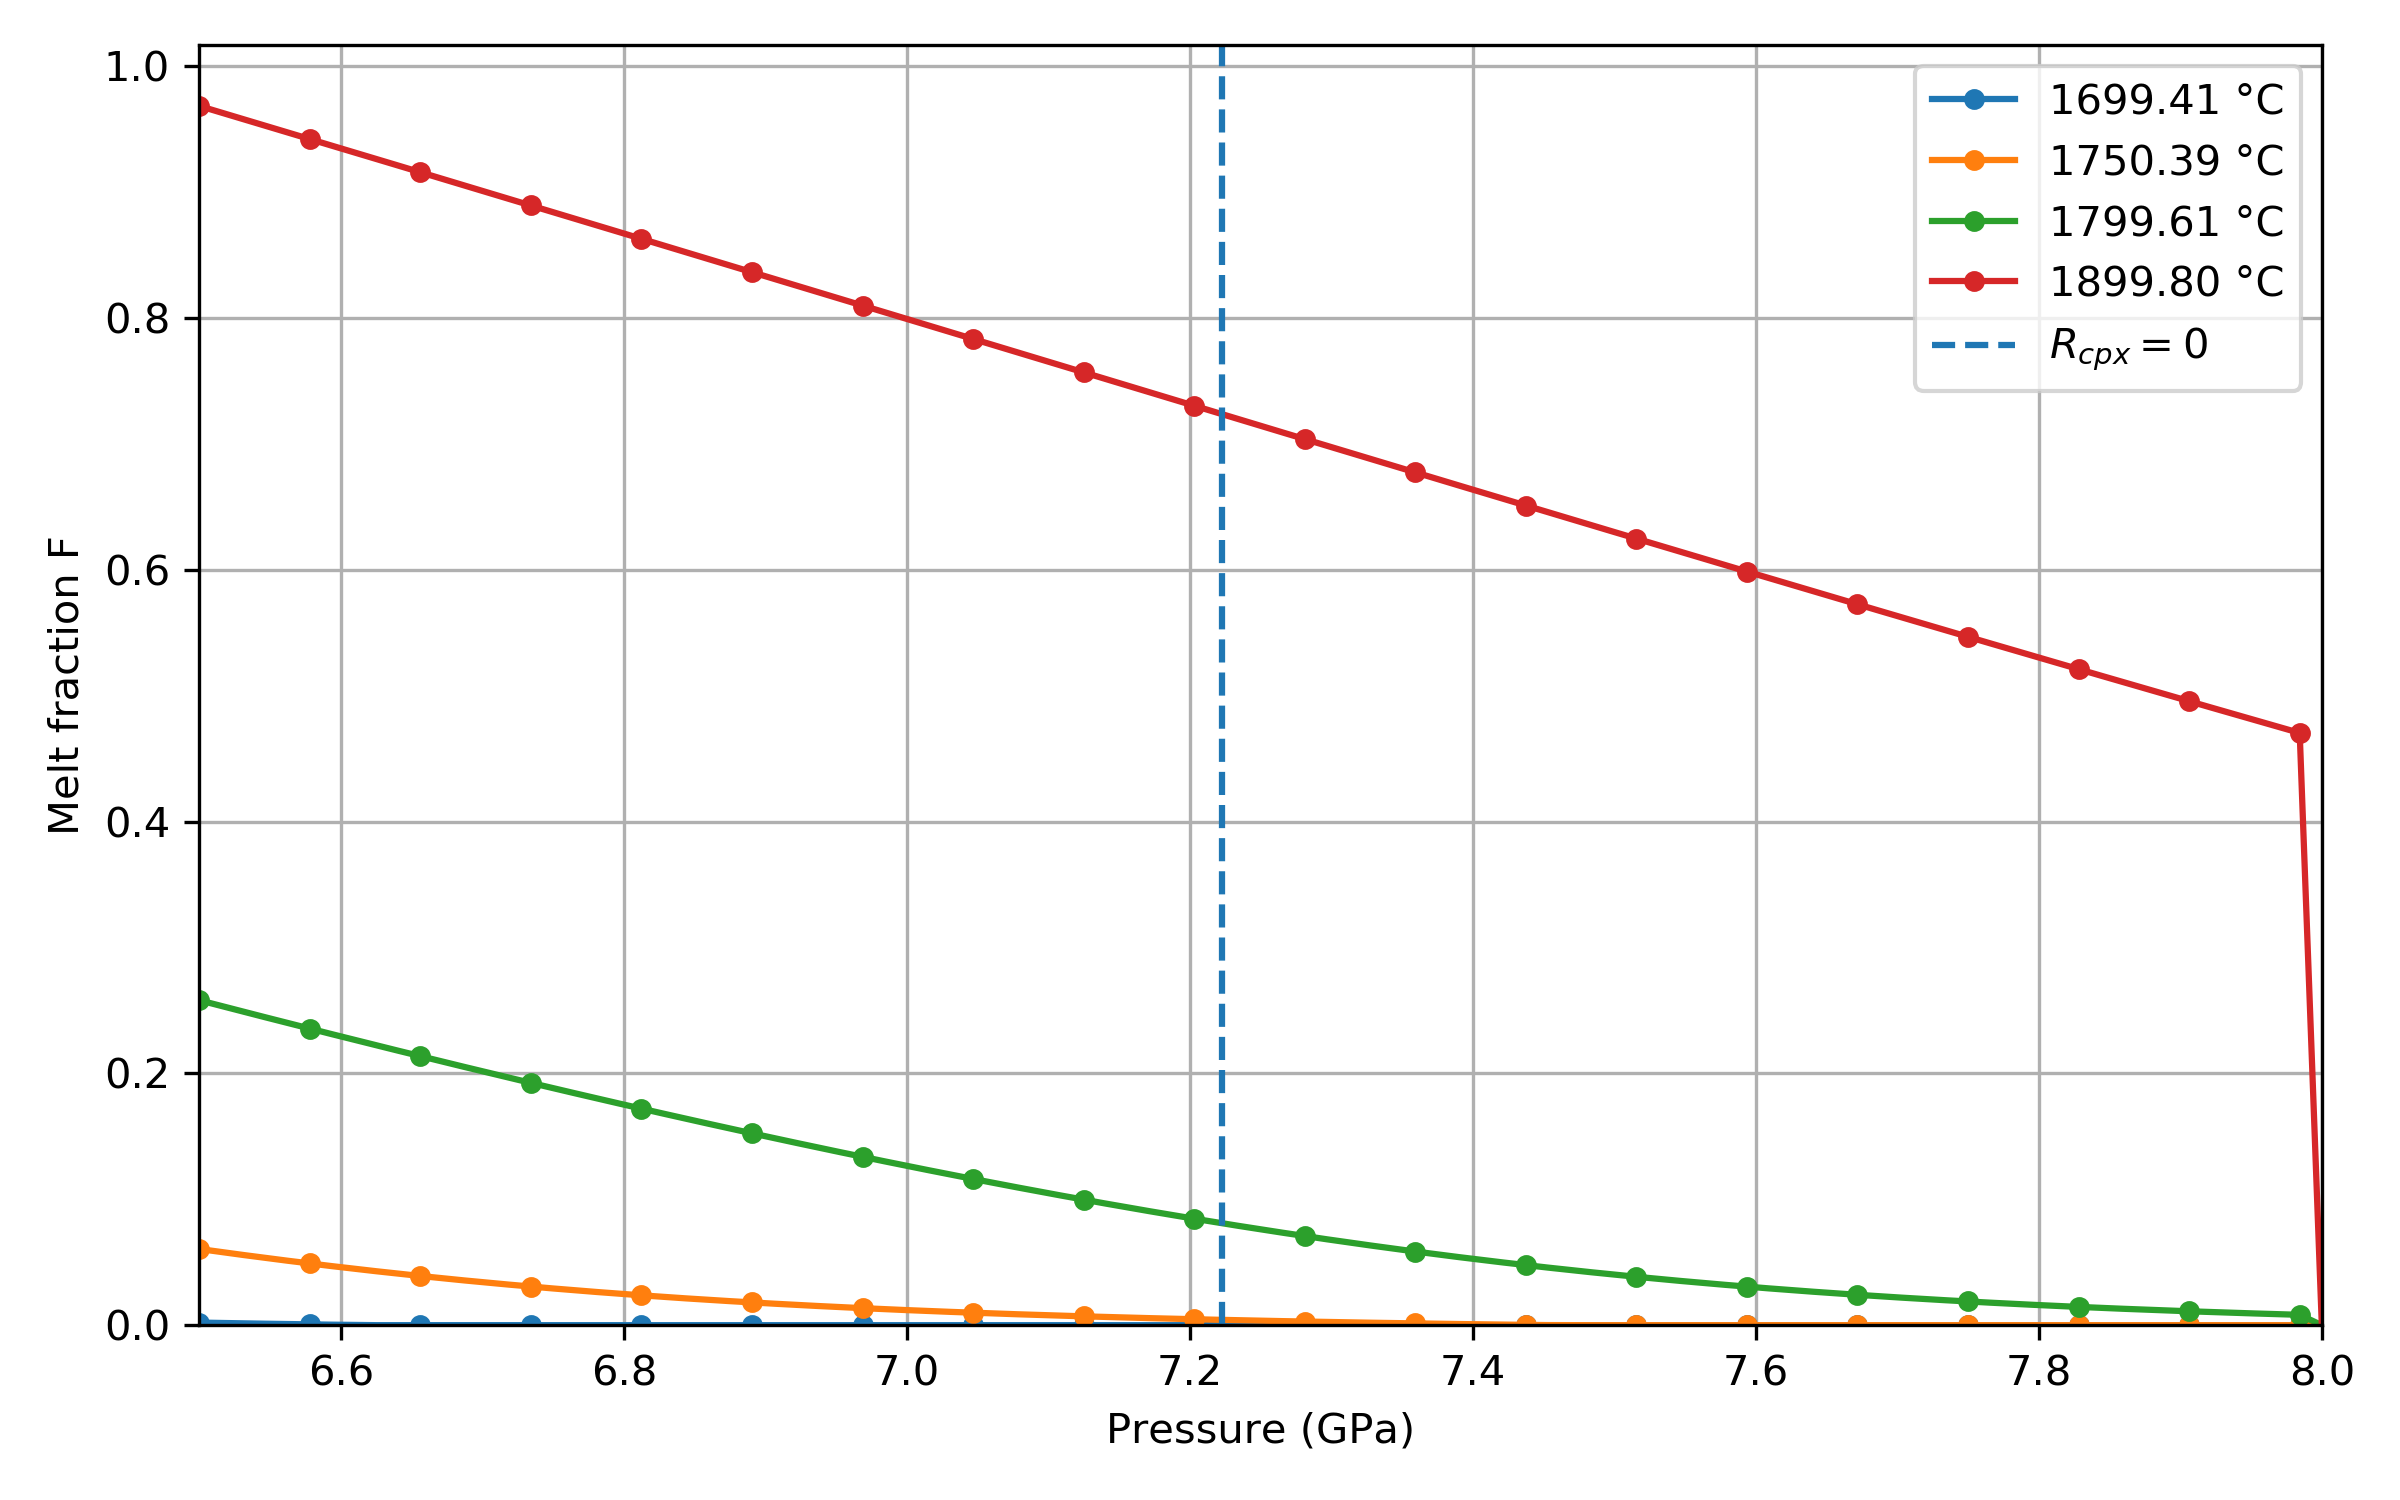
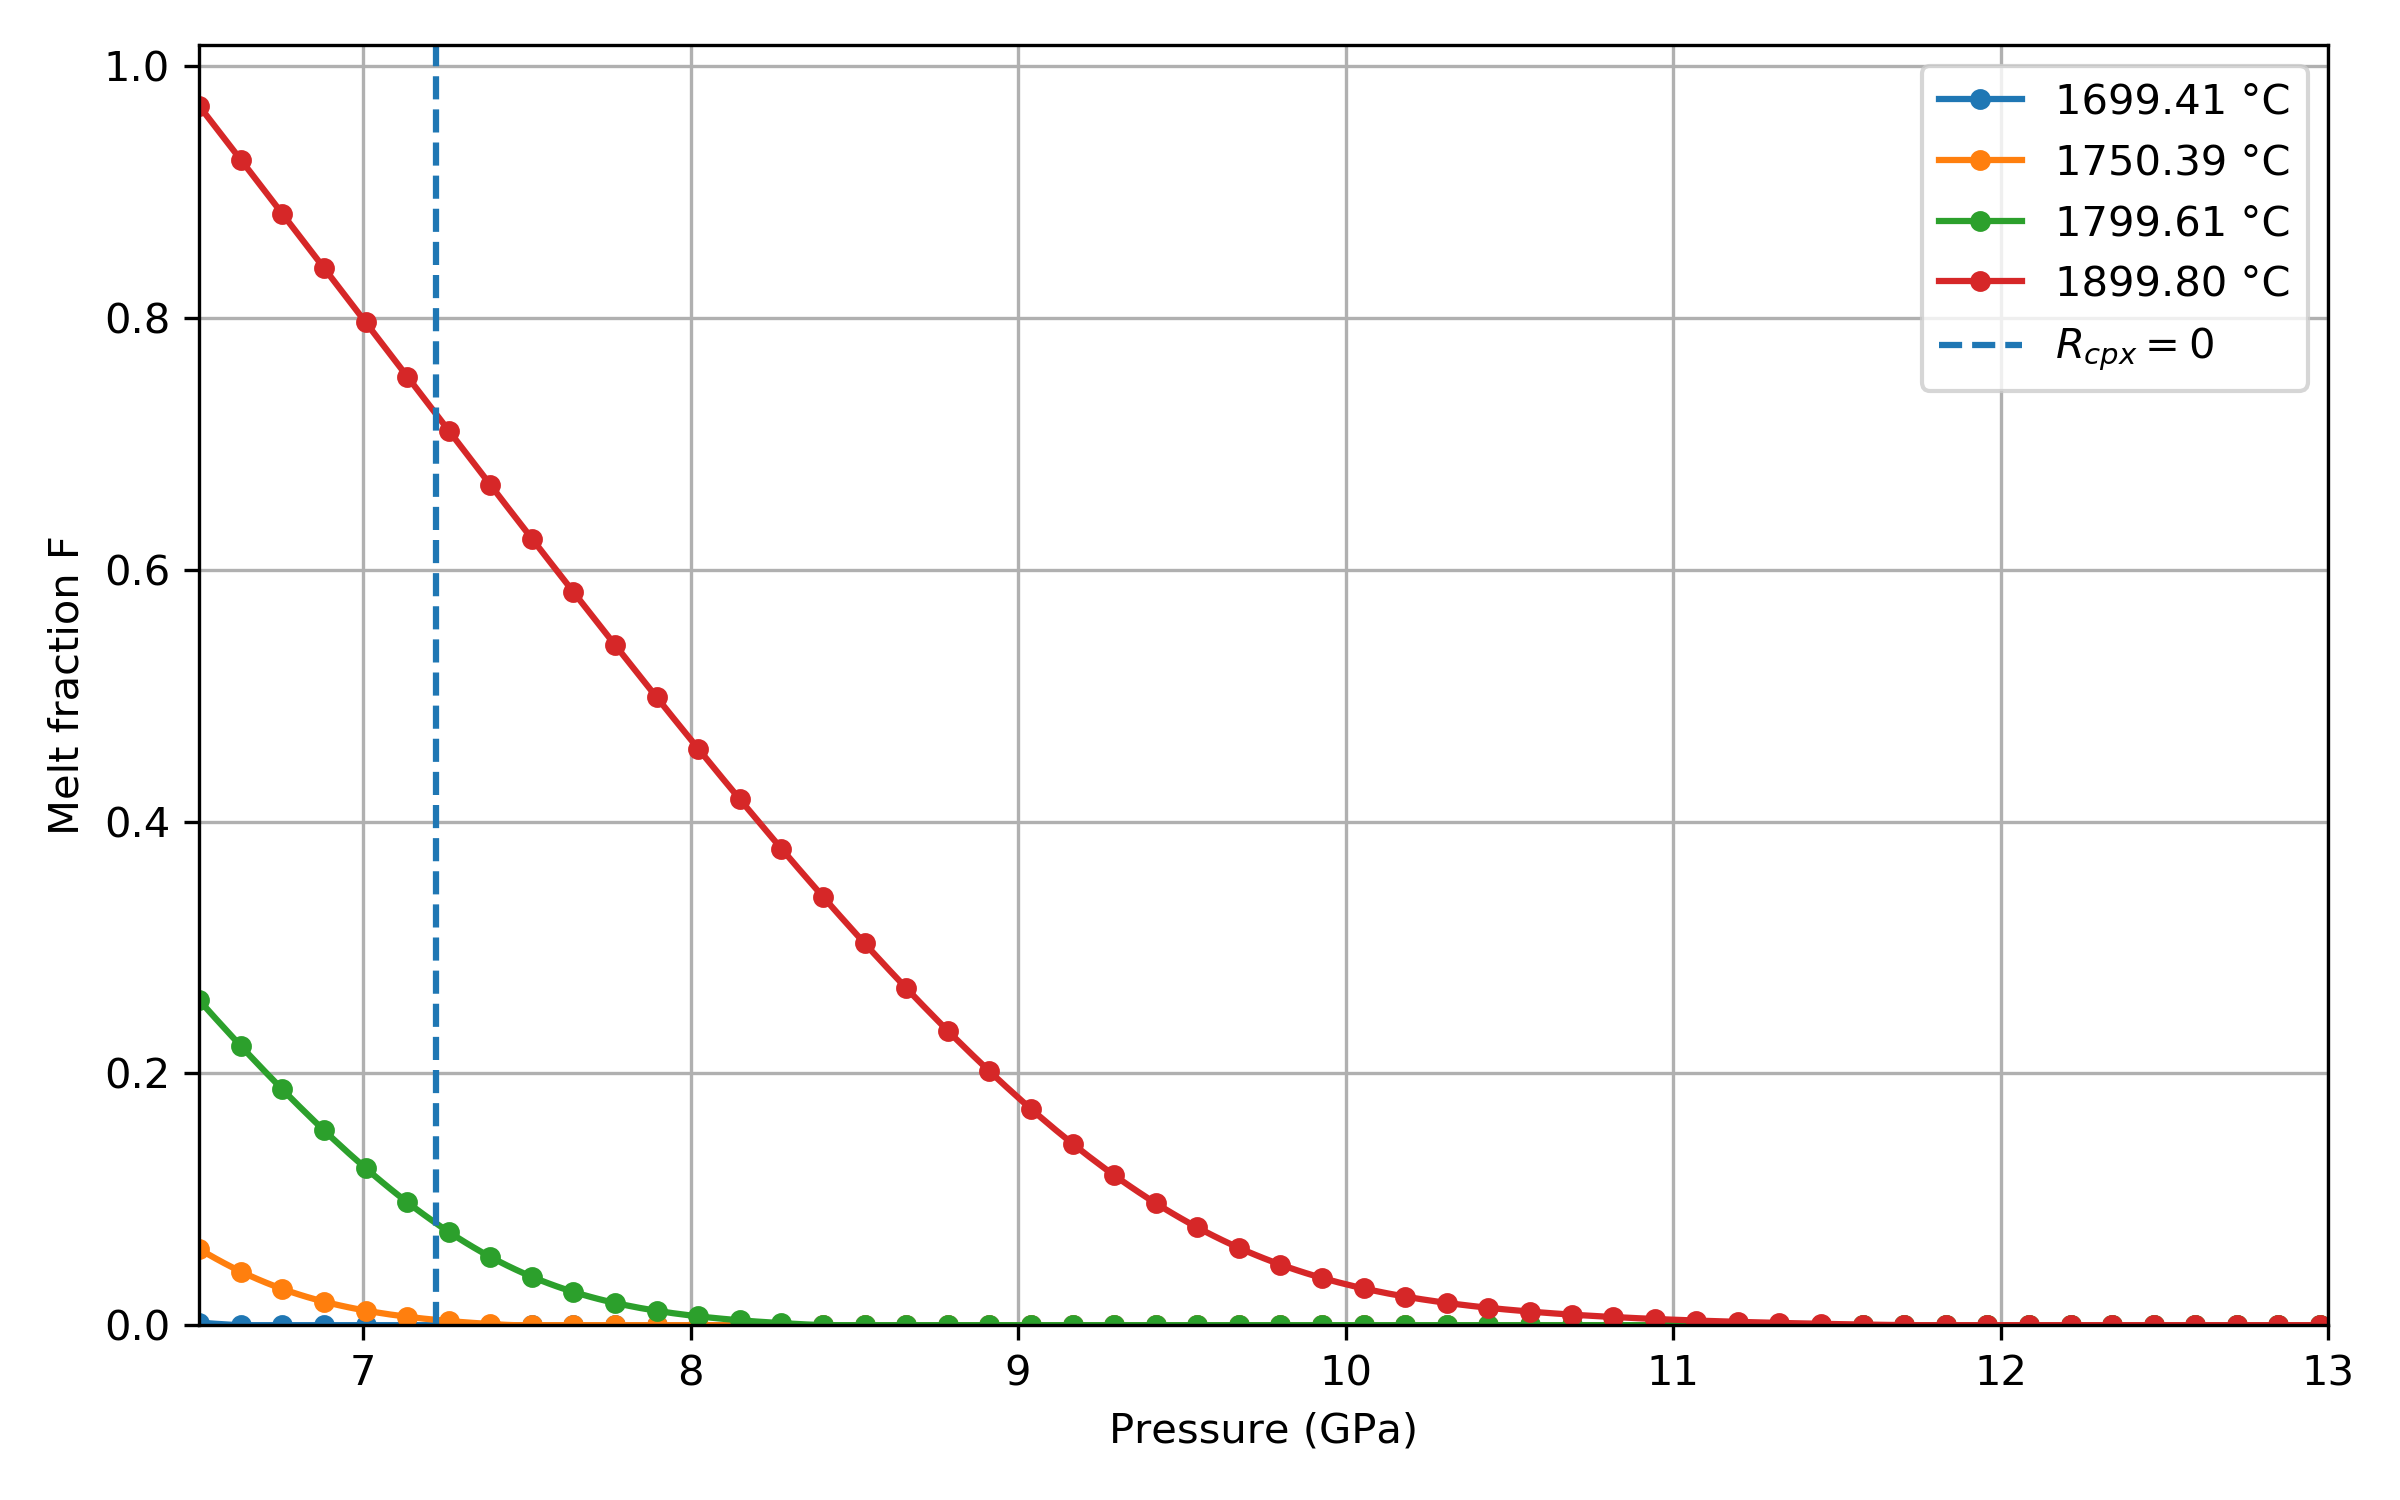
Update hydrous melt fraction documentation and benchmark plot

diff --git a/source/postprocess/visualization/melt_fraction.cc b/source/postprocess/visualization/melt_fraction.cc
@@ -483,7 +483,7 @@ namespace aspect
                                  "Units: non-dimensional.");
               prm.declare_entry ("Bulk H2O ppm", "0",
                                  Patterns::Double (0),
-                                 "Bulk water content of the mantle source."
+                                 "Bulk water content of the mantle source. Must be a value greater than or equal to 0. "
                                  "Units: ppm.");
               prm.declare_entry ("Mass fraction cpx", "0.15",
                                  Patterns::Double (),
@@ -537,16 +537,15 @@ namespace aspect
                                 "which compositional field corresponds to which melting model. ");
               prm.declare_entry ("D H2O", "0.01",
                                  Patterns::Double (0, 1),
-                                 "Bulk partition coefficient of water. "
+                                 "Bulk partition coefficient of water. Must be a value in (0, 1]. "
                                  "Units: dimensionless.");
               prm.declare_entry ("K H2O", "43",
                                  Patterns::Double (0),
-                                 "Water-induced melting temperature depression coefficient. "
+                                 "Water-induced melting temperature depression coefficient. Must be a value greater than or equal to 0. "
                                  "Units: K/(wt%)^gamma_H2O.");
               prm.declare_entry ("gamma H2O", "0.75",
                                  Patterns::Double (0, 1),
-                                 "Exponent for the water-induced melting temperature depression. "
-                                 "It has to be larger than 0 and smaller than 1. "
+                                 "Exponent for the water-induced melting temperature depression. Must be a value in (0, 1). "
                                  "Units: dimensionless.");
               prm.declare_entry ("k1 H2O", "12",
                                  Patterns::Double (),
@@ -558,8 +557,7 @@ namespace aspect
                                  "Units: wt%/Gpa.");
               prm.declare_entry ("lambda H2O", "0.6",
                                  Patterns::Double (0, 1),
-                                 "Exponent for the non-linear pressure of the water saturation expression. "
-                                 "It has to be larger than 0 and smaller than 1. "
+                                 "Exponent for the non-linear pressure of the water saturation expression. Must be a value in (0, 1). "
                                  "Units: dimensionless.");
             }
             prm.leave_subsection();

diff --git a/benchmarks/melt_fraction_hydrous/doc/plot_extension_Rcpx0.py b/benchmarks/melt_fraction_hydrous/doc/plot_extension_Rcpx0.py
@@ -35,7 +35,7 @@ T_C = data[:, 5] - 273.15
 F = data[:, 6]
 
 # Pressure range around R_cpx = 0
-mask = (P_GPa >= 6.5) & (P_GPa <= 8.0)
+mask = (P_GPa >= 6.5) & (P_GPa <= 13.0)
 
 P_GPa = P_GPa[mask]
 T_C = T_C[mask]
@@ -70,7 +70,7 @@ plt.axvline(P_rcpx0, linestyle="--", linewidth=1.5, label=r"$R_{cpx}=0$")
 
 plt.xlabel("Pressure (GPa)")
 plt.ylabel("Melt fraction F")
-plt.xlim(6.5, 8.0)
+plt.xlim(6.5, 13.0)
 plt.ylim(bottom=0)
 plt.grid(True)
 plt.legend()

diff --git a/doc/sphinx/parameters/Postprocess.md b/doc/sphinx/parameters/Postprocess.md
@@ -1594,7 +1594,7 @@ viscosity|density|thermal expansivity|specific heat|thermal conductivity|thermal
 
 **Pattern:** [Double 0...MAX_DOUBLE (inclusive)]
 
-**Documentation:** Bulk water content of the mantle source.Units: ppm.
+**Documentation:** Bulk water content of the mantle source. Must be a value greater than or equal to 0. Units: ppm.
 ::::
 
 ::::{dropdown} __Parameter:__ {ref}`C1<parameters:Postprocess/Visualization/Melt_20fraction/C1>`
@@ -1630,7 +1630,7 @@ viscosity|density|thermal expansivity|specific heat|thermal conductivity|thermal
 
 **Pattern:** [Double 0...1 (inclusive)]
 
-**Documentation:** Bulk partition coefficient of water. Units: dimensionless.
+**Documentation:** Bulk partition coefficient of water. Must be a value in (0, 1]. Units: dimensionless.
 ::::
 
 ::::{dropdown} __Parameter:__ {ref}`D1<parameters:Postprocess/Visualization/Melt_20fraction/D1>`
@@ -1684,7 +1684,7 @@ viscosity|density|thermal expansivity|specific heat|thermal conductivity|thermal
 
 **Pattern:** [Double 0...MAX_DOUBLE (inclusive)]
 
-**Documentation:** Water-induced melting temperature depression coefficient. Units: K/(wt%)^gamma_H2O.
+**Documentation:** Water-induced melting temperature depression coefficient. Must be a value greater than or equal to 0. Units: K/(wt%)^gamma_H2O.
 ::::
 
 ::::{dropdown} __Parameter:__ {ref}`List of melting compositions other than peridotite<parameters:Postprocess/Visualization/Melt_20fraction/List_20of_20melting_20compositions_20other_20than_20peridotite>`
@@ -1729,7 +1729,7 @@ viscosity|density|thermal expansivity|specific heat|thermal conductivity|thermal
 
 **Pattern:** [Double 0...1 (inclusive)]
 
-**Documentation:** Exponent for the water-induced melting temperature depression. It has to be larger than 0 and smaller than 1. Units: dimensionless.
+**Documentation:** Exponent for the water-induced melting temperature depression. Must be a value in (0, 1). Units: dimensionless.
 ::::
 
 ::::{dropdown} __Parameter:__ {ref}`k1 H2O<parameters:Postprocess/Visualization/Melt_20fraction/k1_20H2O>`
@@ -1756,7 +1756,7 @@ viscosity|density|thermal expansivity|specific heat|thermal conductivity|thermal
 
 **Pattern:** [Double 0...1 (inclusive)]
 
-**Documentation:** Exponent for the non-linear pressure of the water saturation expression. It has to be larger than 0 and smaller than 1. Units: dimensionless.
+**Documentation:** Exponent for the non-linear pressure of the water saturation expression. Must be a value in (0, 1). Units: dimensionless.
 ::::
 
 ::::{dropdown} __Parameter:__ {ref}`r1<parameters:Postprocess/Visualization/Melt_20fraction/r1>`
